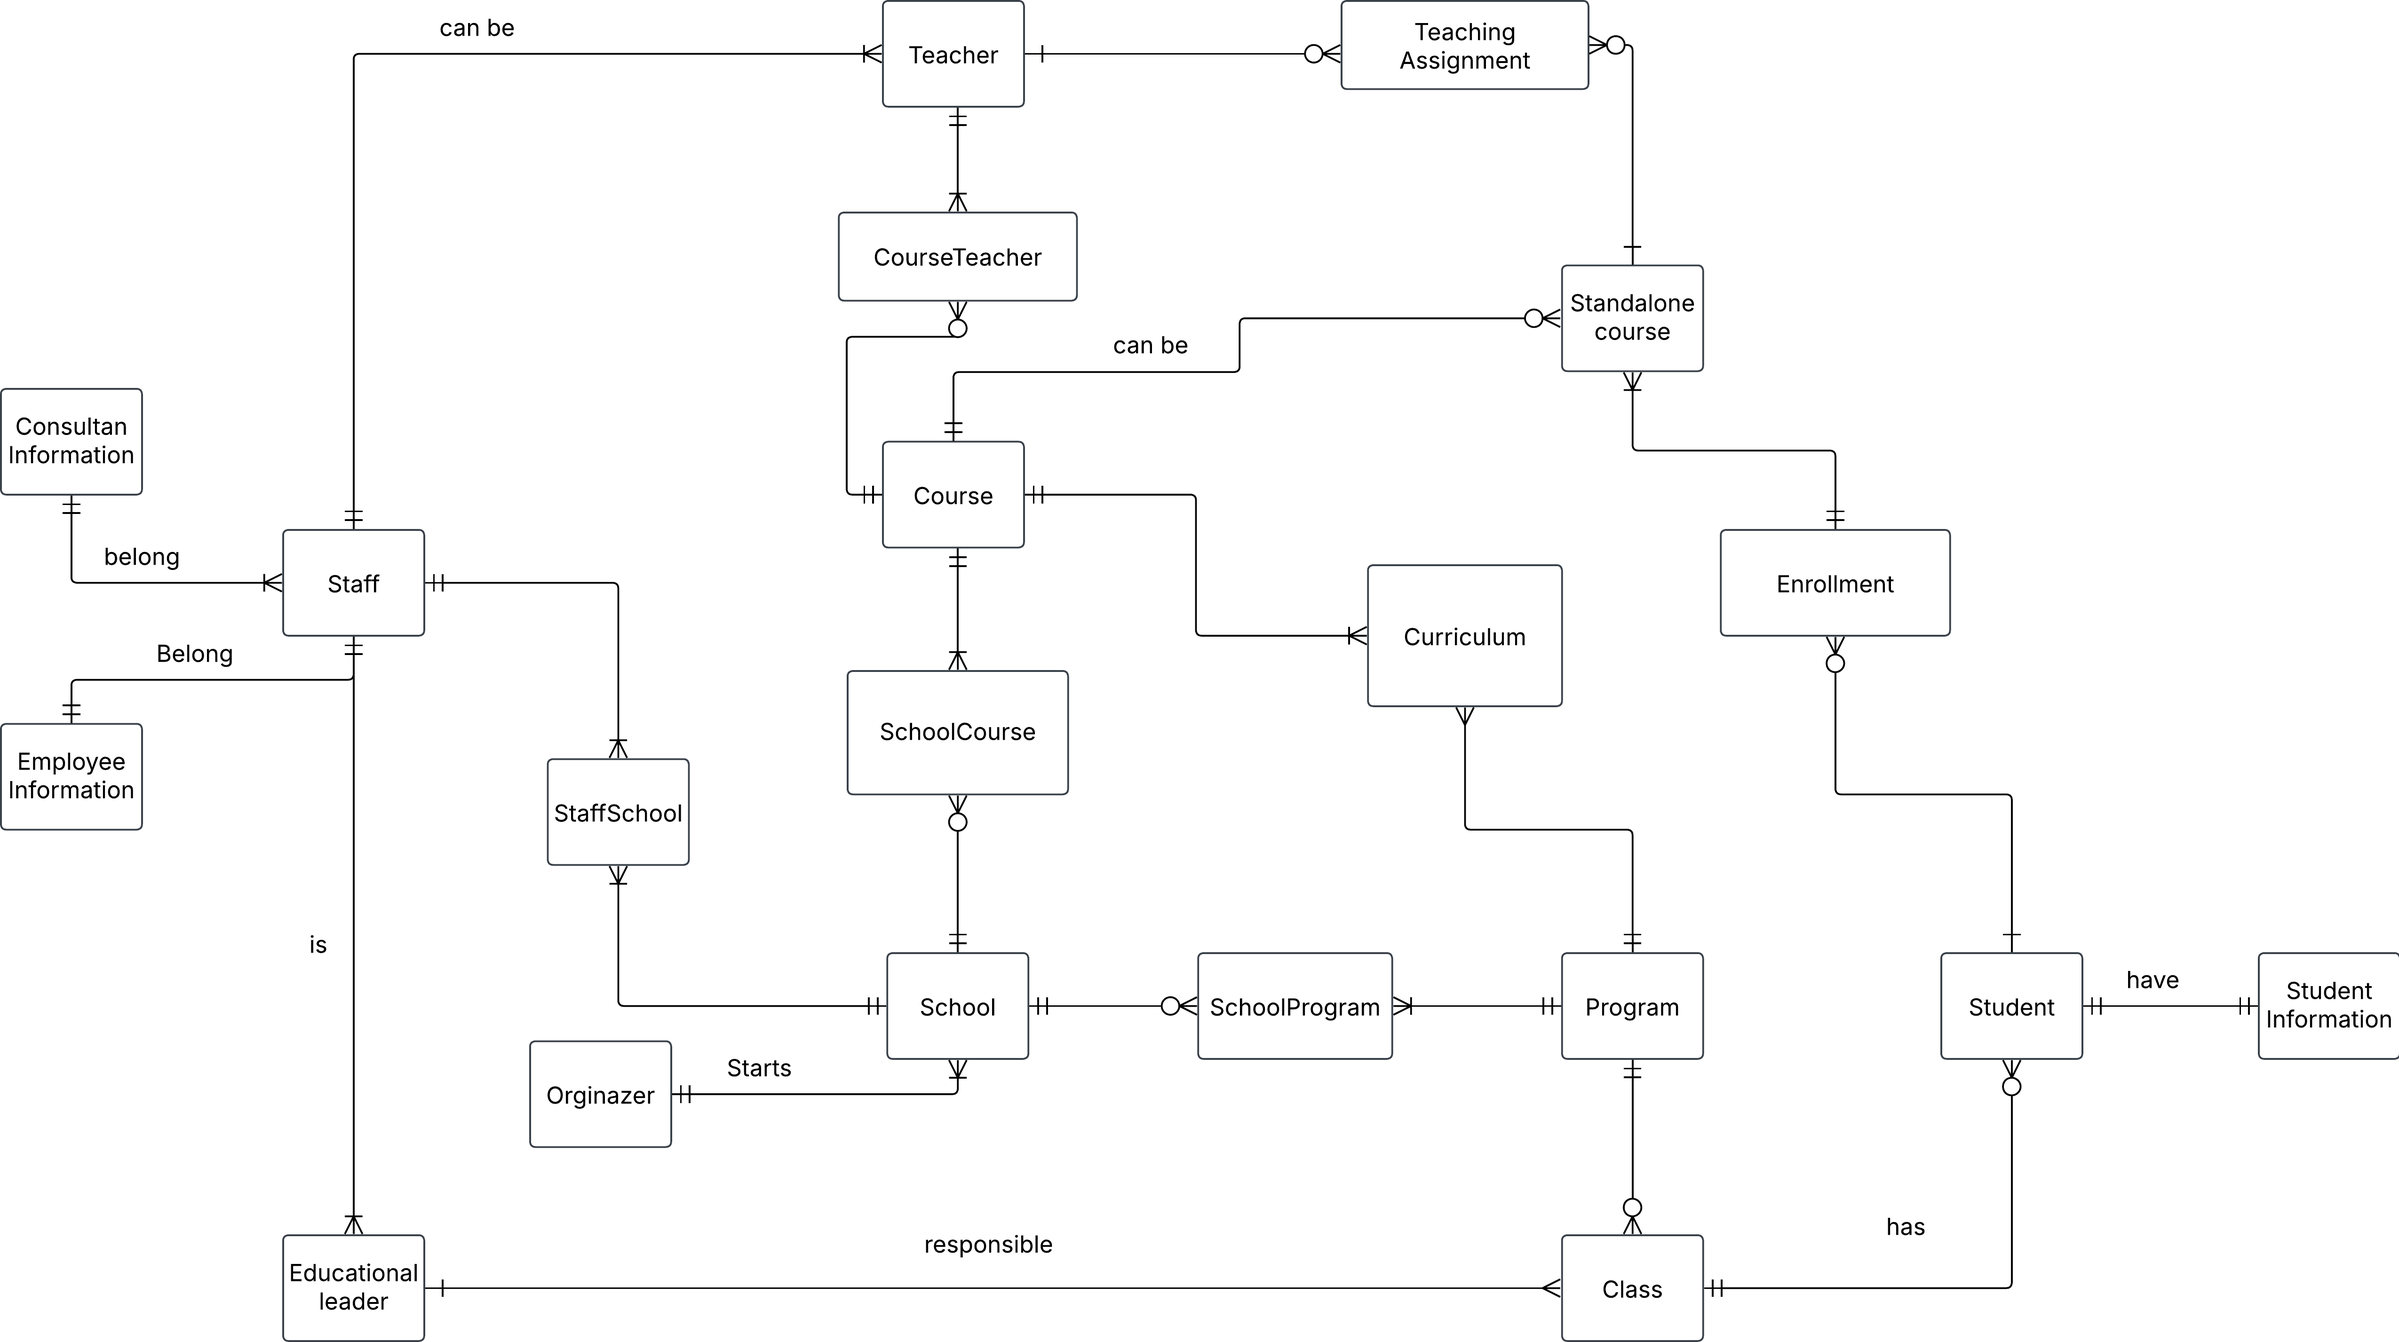
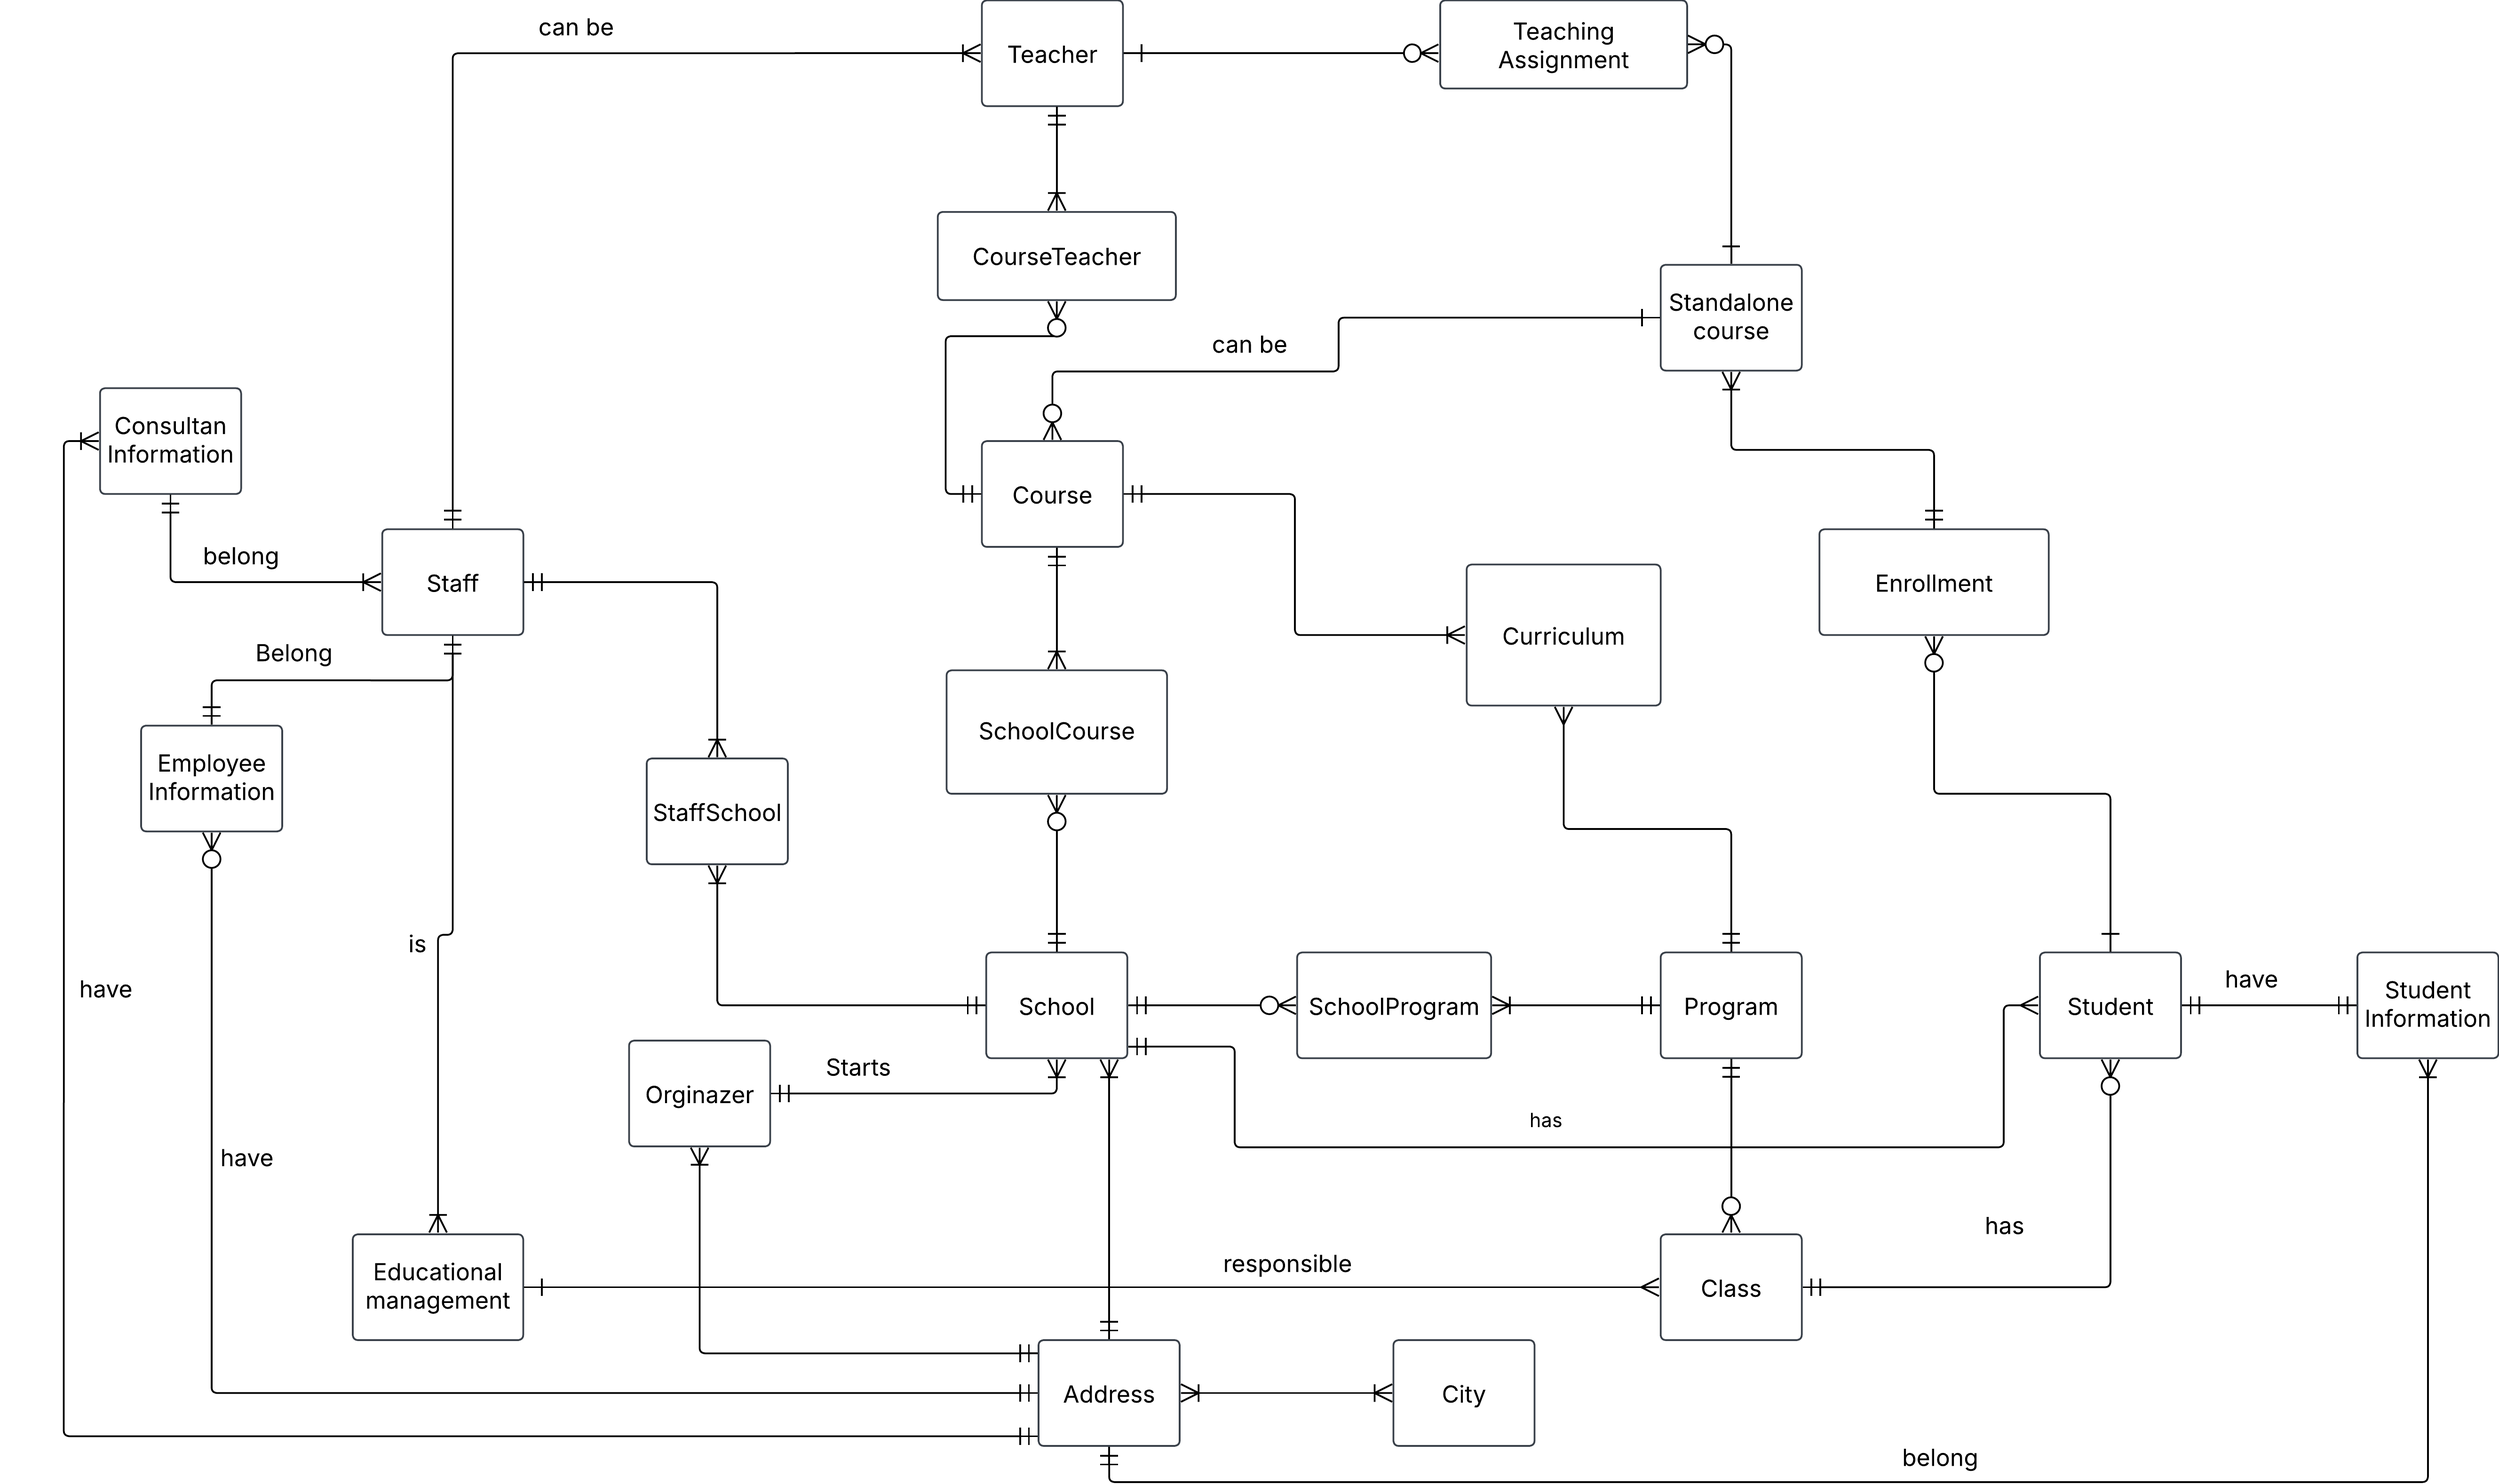
made entities with attribute

diff --git a/yh_labb.md b/yh_labb.md
@@ -32,6 +32,7 @@
 - Staff information
 - Consultant information
 
+
 **Initial conceptual ERD**
 
 <img src = "assets/initial_conceptual_erd.png">
@@ -66,4 +67,169 @@
 
 **conceptual ERD with composite entities**
 
+
 <img src = "assets/conceptual_erd_composite_entities.png">
+
+***Entities and composite entities***
+- School
+- Orginazer
+- SchoolProgram
+- Program
+- Curriculum
+- Course
+- SchoolCourse
+- CourseTeacher
+- Teacher
+- Teaching_Assignment
+- Standalone_course
+- Enrollment
+- Student
+- Student_Information
+- Address
+- City
+- Educational_management
+- Staff
+- Employee_Information
+- Consultan_Information
+
+***Business rules***
+- Each student may only have one registered address
+- A student can only belong to one school
+- Each employeed may only have one registered address
+---
+
+## Logical model
+
+**Entity and attribute**
+
+***Orginazer***
+- orginazer_id (PK)
+- phone
+- email
+
+***School***
+- school_id (PK)
+- address_id (FK)
+- orginazer_id (FK)
+- school_name
+- phone
+- email
+
+***Address***
+- address_id (PK)
+- city (FK)
+- address
+- postcode
+
+
+***City***
+- city_id (PK)
+- city
+
+***SchoolProgram***
+- composite primary key (school_id, program_id)
+- school_id (FK)
+- program_id (FK)
+
+***Program***
+- program_id (PK)
+- program_name
+- start_date
+- end_date
+
+
+***Curriculum***
+- composite primary key (program_id, course_id)
+- program_id (FK)
+- course_id (FK)
+
+
+***Course***
+- course_id (PK)
+- course_name
+- cours_code
+- credits
+- description
+- start_date
+- end_date
+
+***CourseTeache***
+- composite primary key (course_id, teacher_id)
+- course_id (FK)
+- teacher_id (FK)
+
+***Teacher***
+- teacher_id (PK)
+- first_name
+- last_name
+
+***TeacherAssignment***
+- compoiste primary key (teacher_id, standalone_course_id)
+- teacher_id (FK)
+- standalone_course (FK)
+
+***Standalone_course***
+- standalone_course_id (PK)
+- standalone_course_name
+- course_code
+- credits
+- description
+- start_date
+- end_date
+
+***Enrollment***
+- composite primary key (standalone_course_id, student_id)
+- standalone_course_id (FK)
+- student_id (FK)
+
+***Student***
+- student_id (PK)
+- student_information (FK)
+- class_id (FK)
+- first_name
+- last_name
+
+***Student_information***
+- student_social_securit_number (PK)
+- address_id (FK)
+- school_id (FK)
+- phone
+- email
+- password
+
+***Class***
+- class_id (PK)
+- program_id (FK)
+- class_name
+- amount
+
+***Educational_leader***
+- educational_leader_id (PK)
+- class_id (FK)
+- staff_id (FK)
+- first_name
+- last_name
+
+***Staff***
+- staff_id (PK)
+- first_name
+- last_name
+
+***Employee_information***
+- social_security_number (PK)
+- address_id (FK)
+- phone
+- email
+
+***Consultan_information***
+- consultan_id (PK)
+- address_id (FK)
+- company
+- company_information
+- organiztion_number
+- f-tax
+
+***StaffSchool***
+- composite primary key (staff_id, school_id)
+- staff_id (FK)
+- school_id (FK)
